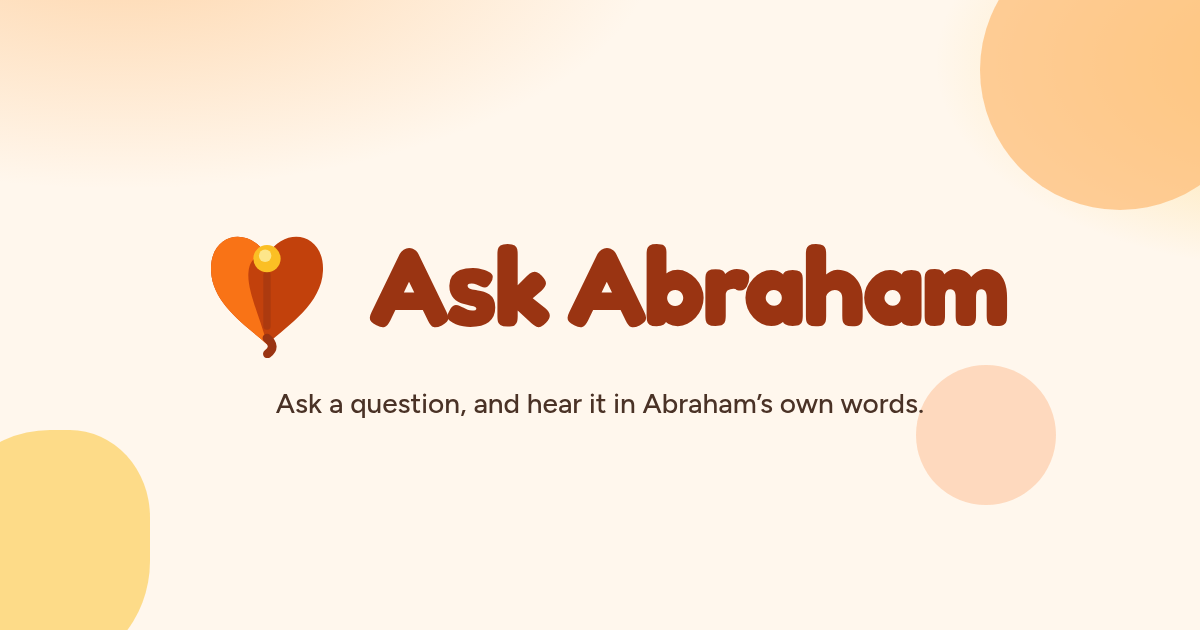
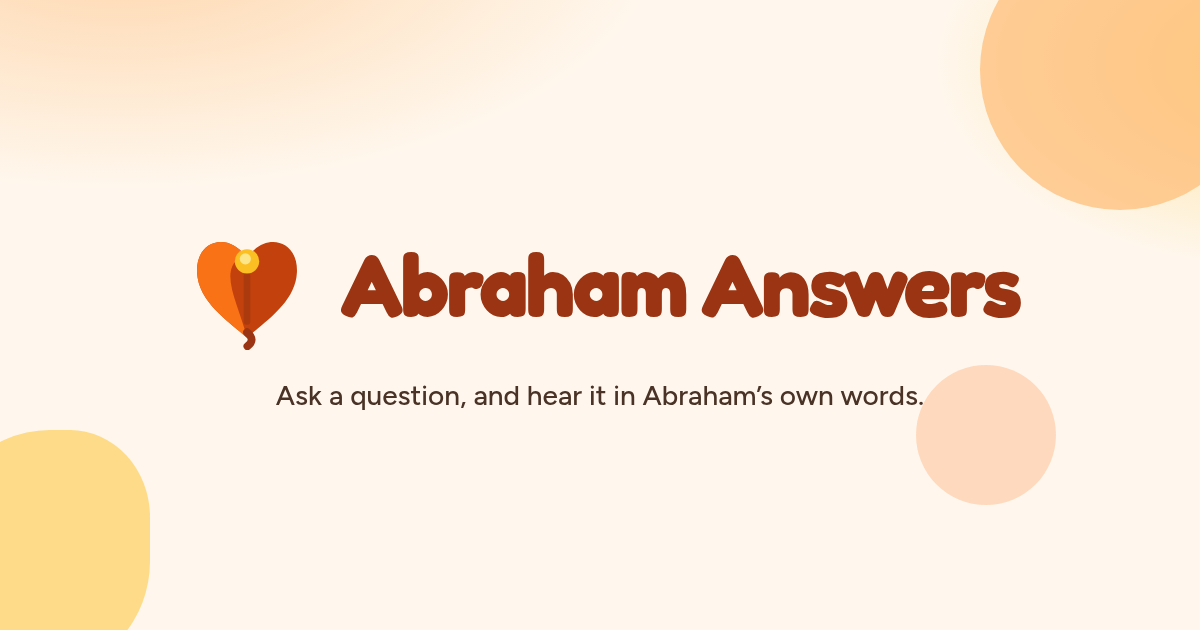
Abraham Answers: rebrand, Answer tab, About comment form, admin@abrahamanswers.com

Changed region(s): [[0.1542, 0.3619, 0.8633, 0.573], [0.2158, 0.6032, 0.7708, 0.6635]]

diff --git a/index.html b/index.html
@@ -3,20 +3,21 @@
 <head>
 <meta charset="utf-8">
 <meta name="viewport" content="width=device-width, initial-scale=1">
-<title>Ask Abraham</title>
+<title>Abraham Answers</title>
 <meta name="description" content="Ask a question and hear it in Abraham’s own words, drawn from Abraham-Hicks transcripts with a link to the exact moment.">
 <meta name="theme-color" content="#C2410C">
 <meta name="apple-mobile-web-app-capable" content="yes">
-<meta name="apple-mobile-web-app-title" content="Ask Abraham">
+<meta name="apple-mobile-web-app-title" content="Abraham Answers">
 <meta property="og:type" content="website">
-<meta property="og:title" content="Ask Abraham">
+<meta property="og:title" content="Abraham Answers">
 <meta property="og:description" content="Ask a question and hear it in Abraham’s own words, drawn from Abraham-Hicks transcripts with a link to the exact moment.">
-<meta property="og:image" content="https://awesome2310-cyber.github.io/ask-abraham/og.png">
-<meta property="og:url" content="https://awesome2310-cyber.github.io/ask-abraham/">
+<meta property="og:image" content="https://abrahamanswers.com/og.png">
+<meta property="og:url" content="https://abrahamanswers.com/">
+<link rel="canonical" href="https://abrahamanswers.com/">
 <meta name="twitter:card" content="summary_large_image">
-<meta name="twitter:title" content="Ask Abraham">
+<meta name="twitter:title" content="Abraham Answers">
 <meta name="twitter:description" content="Ask a question and hear it in Abraham’s own words, drawn from Abraham-Hicks transcripts with a link to the exact moment.">
-<meta name="twitter:image" content="https://awesome2310-cyber.github.io/ask-abraham/og.png">
+<meta name="twitter:image" content="https://abrahamanswers.com/og.png">
 <link rel="icon" href="favicon.svg" type="image/svg+xml">
 <link rel="icon" href="favicon-32.png" sizes="32x32" type="image/png">
 <link rel="apple-touch-icon" href="apple-touch-icon.png">
@@ -279,6 +280,33 @@
   html[data-v="b"] .btn-solid { border-radius: 14px; }
   .btn-solid:hover { transform: translateY(-2px); box-shadow: 0 14px 24px -8px rgba(194,65,12,.6); }
 
+
+  .about-contact .contact-line { margin: 0 0 18px; font-size: 16px; line-height: 1.55; color: var(--ink-soft); }
+  .about-contact .contact-line a { font-weight: 700; color: var(--primary-deep); text-decoration: none; word-break: break-word; }
+  .about-contact .contact-line a:hover { text-decoration: underline; }
+  .comment-form { display: grid; gap: 14px; }
+  .comment-form label { display: grid; gap: 6px; font-size: 13.5px; font-weight: 700; color: var(--ink-soft); }
+  .comment-form .hint { font-weight: 500; color: var(--muted); }
+  .comment-form input[type="text"],
+  .comment-form input[type="email"],
+  .comment-form textarea {
+    appearance: none; width: 100%; border: 1px solid var(--line); background: var(--cream);
+    border-radius: 16px; padding: 12px 14px; font-family: var(--font); font-size: 16px; color: var(--ink);
+    min-height: 48px;
+  }
+  .comment-form textarea { min-height: 140px; resize: vertical; line-height: 1.5; }
+  .comment-form input:focus, .comment-form textarea:focus {
+    outline: none; border-color: var(--peach); box-shadow: 0 0 0 4px rgba(253,186,116,.35); background: #fff;
+  }
+  .comment-form .honey { position: absolute; left: -9999px; width: 1px; height: 1px; overflow: hidden; }
+  .comment-form .form-actions { display: flex; flex-wrap: wrap; align-items: center; gap: 12px; margin-top: 4px; }
+  .comment-form .form-status { margin: 0; font-size: 14.5px; line-height: 1.5; color: var(--ink-soft); }
+  .comment-form .form-status.ok { color: #166534; }
+  .comment-form .form-status.err { color: #9A3412; }
+  .comment-form .form-status a { font-weight: 700; }
+  .comment-form .btn-solid:disabled { opacity: .72; cursor: wait; transform: none; box-shadow: 0 10px 20px -8px rgba(194,65,12,.55); }
+
+
   footer.note { margin-top: 44px; padding-top: 18px; border-top: 1px solid var(--line); color: var(--muted); font-size: 13px; line-height: 1.6; text-align: center; }
   footer.note a { color: var(--primary-deep); font-weight: 600; }
   #toast { position: fixed; left: 50%; bottom: 28px; transform: translateX(-50%); background: var(--ink); color: #fff; padding: 12px 20px; border-radius: 999px; font-size: 14px; font-weight: 600; z-index: 60; box-shadow: var(--shadow-lg); animation: rise .25s var(--ease) both; }
@@ -346,13 +374,13 @@
 
   <header class="topbar">
     <div class="topbar-in">
-      <a class="brand" id="brand" href="./" aria-label="Ask Abraham, home">
+      <a class="brand" id="brand" href="./" aria-label="Abraham Answers, home">
         <svg class="logo-mark" aria-hidden="true"><use href="#heartleaf"/></svg>
-        <span class="brand-name">Ask Abraham</span>
+        <span class="brand-name">Abraham Answers</span>
       </a>
       <nav class="tabs" role="tablist" aria-label="Sections">
         <button type="button" class="tab" id="tabAsk" role="tab" aria-selected="true" aria-controls="askPane" tabindex="0">
-          <svg class="ti" viewBox="0 0 24 24" fill="none" stroke="currentColor" stroke-width="1.9" stroke-linecap="round" stroke-linejoin="round" aria-hidden="true"><path d="M21 11.5a8.38 8.38 0 0 1-.9 3.8 8.5 8.5 0 0 1-7.6 4.7 8.38 8.38 0 0 1-3.8-.9L3 21l1.9-5.7a8.38 8.38 0 0 1-.9-3.8 8.5 8.5 0 0 1 4.7-7.6 8.38 8.38 0 0 1 3.8-.9h.5a8.48 8.48 0 0 1 8 8v.5z"/></svg><span>Ask</span></button>
+          <svg class="ti" viewBox="0 0 24 24" fill="none" stroke="currentColor" stroke-width="1.9" stroke-linecap="round" stroke-linejoin="round" aria-hidden="true"><path d="M21 11.5a8.38 8.38 0 0 1-.9 3.8 8.5 8.5 0 0 1-7.6 4.7 8.38 8.38 0 0 1-3.8-.9L3 21l1.9-5.7a8.38 8.38 0 0 1-.9-3.8 8.5 8.5 0 0 1 4.7-7.6 8.38 8.38 0 0 1 3.8-.9h.5a8.48 8.48 0 0 1 8 8v.5z"/></svg><span>Answer</span></button>
         <button type="button" class="tab" id="tabTopics" role="tab" aria-selected="false" aria-controls="topicsPane" tabindex="-1">
           <svg class="ti" viewBox="0 0 24 24" fill="none" stroke="currentColor" stroke-width="1.9" stroke-linecap="round" stroke-linejoin="round" aria-hidden="true"><circle cx="12" cy="12" r="10"/><path d="m16.24 7.76-2.12 6.36-6.36 2.12 2.12-6.36z"/></svg><span>Explore</span></button>
         <button type="button" class="tab" id="tabAbout" role="tab" aria-selected="false" aria-controls="aboutPane" tabindex="-1">
@@ -366,13 +394,13 @@
       <div class="hero">
         <svg class="hero-mark" aria-hidden="true"><use href="#heartleaf"/></svg>
         <p class="eyebrow">The teachings of Abraham Hicks</p>
-        <h1 class="hero-title">What’s on your <em>mind?</em></h1>
+        <h1 class="hero-title">When You Ask, Source Answers</h1>
         <p class="lede">Ask in your own words and hear Abraham’s answer, with the video ready at the exact moment.</p>
       </div>
       <div class="ask-sticky">
         <div class="ask-box">
           <label for="question" class="visually-hidden">Your question for Abraham</label>
-          <textarea id="question" rows="1" placeholder="Ask Abraham anything…" autocomplete="off"></textarea>
+          <textarea id="question" rows="1" placeholder="Ask Abraham for Answers…" autocomplete="off"></textarea>
           <button type="button" id="askBtn" aria-label="Ask"><span class="lbl">Ask</span><svg viewBox="0 0 24 24" fill="none" stroke="currentColor" stroke-width="2.4" stroke-linecap="round" stroke-linejoin="round" aria-hidden="true"><path d="M5 12h14"/><path d="m13 6 6 6-6 6"/></svg></button>
         </div>
         <div id="loadSlot"></div>
@@ -413,12 +441,12 @@
       <div class="about-hero">
         <svg class="hero-mark" aria-hidden="true"><use href="#heartleaf"/></svg>
         <h1>Helping the words of Abraham reach more people</h1>
-        <p class="about-lede">Ask Abraham is a small labor of love, made to share the teachings of Abraham Hicks with anyone who could use them.</p>
+        <p class="about-lede">Abraham Answers is a small labor of love, made to share the teachings of Abraham Hicks with anyone who could use them.</p>
       </div>
       <div class="about-card">
         <h2>Why we made this</h2>
         <p>There are thousands of hours of Abraham’s recordings out there, and when something is weighing on you, the right words can be hard to find.</p>
-        <p>So we built a simple way to ask in your own words and be taken straight to what Abraham said about it, in his own voice, at the exact moment. When you hit a problem, a worry, a health scare, a money knot, or a tough day with your child, we hope an answer is never more than a question away.</p>
+        <p>So we built a simple way to ask in your own words and be taken straight to what Abraham said about it, in her own voice, at the exact moment. When you hit a problem, a worry, a health scare, a money knot, or a tough day with your child, we hope an answer is never more than a question away.</p>
       </div>
       <div class="about-card about-goal">
         <h2>What we hope for</h2>
@@ -432,9 +460,29 @@
       <div class="about-note">
         <svg viewBox="0 0 24 24" fill="none" stroke="currentColor" stroke-width="1.9" stroke-linecap="round" stroke-linejoin="round" aria-hidden="true"><circle cx="12" cy="12" r="10"/><path d="M12 16v-4"/><path d="M12 8h.01"/></svg>
         <div>
-          <p><strong>A fan-made, unofficial resource.</strong> Ask Abraham is not affiliated with or endorsed by Abraham Hicks or Esther Hicks. All teachings, recordings, and videos belong to Abraham Hicks / Esther Hicks. For the full body of work, visit <a href="https://www.abraham-hicks.com" target="_blank" rel="noopener noreferrer">abraham-hicks.com</a>.</p>
+          <p><strong>A fan-made, unofficial resource.</strong> Abraham Answers is not affiliated with or endorsed by Abraham Hicks or Esther Hicks. All teachings, recordings, and videos belong to Abraham Hicks / Esther Hicks. For the full body of work, visit <a href="https://www.abraham-hicks.com" target="_blank" rel="noopener noreferrer">abraham-hicks.com</a>.</p>
           <p>Only Abraham’s words are shown: audience questions are set apart, and “…” marks where someone else spoke. Answers are word-for-word transcript text. This is inspiration, not medical advice.</p>
         </div>
+      </div>
+      <div class="about-card about-contact">
+        <h2>Leave a comment</h2>
+        <p class="contact-line">Contact us: <a href="mailto:admin@abrahamanswers.com">admin@abrahamanswers.com</a></p>
+        <form id="commentForm" class="comment-form" novalidate>
+          <input class="honey" type="text" name="_honey" id="commentHoney" tabindex="-1" autocomplete="off" aria-hidden="true">
+          <label for="commentName"><span>Name <span class="hint">(optional)</span></span>
+            <input type="text" id="commentName" name="name" autocomplete="name">
+          </label>
+          <label for="commentEmail"><span>Email <span class="hint">(optional, for a reply)</span></span>
+            <input type="email" id="commentEmail" name="email" autocomplete="email" inputmode="email">
+          </label>
+          <label for="commentMessage"><span>Message</span>
+            <textarea id="commentMessage" name="message" required rows="5"></textarea>
+          </label>
+          <div class="form-actions">
+            <button type="submit" class="btn-solid" id="commentSubmit">Send message</button>
+          </div>
+          <p class="form-status" id="commentStatus" role="status" aria-live="polite"></p>
+        </form>
       </div>
       <div class="about-cta"><button type="button" class="btn-solid" data-nav="ask">Ask a question <svg width="18" height="18" viewBox="0 0 24 24" fill="none" stroke="currentColor" stroke-width="2.4" stroke-linecap="round" stroke-linejoin="round" aria-hidden="true"><path d="M5 12h14"/><path d="m13 6 6 6-6 6"/></svg></button></div>
     </section>
@@ -448,10 +496,67 @@
   "use strict";
   // ---- lazy data loading (v11): the search data lives in separate gzip files that are fetched with progress ----
   const DATA_BASE = "data/";
+
+  const COMMENT_ENDPOINT = "https://formsubmit.co/ajax/admin@abrahamanswers.com";
+  const COMMENT_MAIL = "admin@abrahamanswers.com";
+  function bindCommentForm() {
+    const form = document.getElementById("commentForm");
+    if (!form || form.dataset.bound) return;
+    form.dataset.bound = "1";
+    const status = document.getElementById("commentStatus");
+    const submit = document.getElementById("commentSubmit");
+    const setStatus = (msg, kind) => {
+      if (!status) return;
+      status.className = "form-status" + (kind ? " " + kind : "");
+      status.innerHTML = msg;
+    };
+    form.addEventListener("submit", async (e) => {
+      e.preventDefault();
+      const name = (document.getElementById("commentName") && document.getElementById("commentName").value || "").trim();
+      const email = (document.getElementById("commentEmail") && document.getElementById("commentEmail").value || "").trim();
+      const message = (document.getElementById("commentMessage") && document.getElementById("commentMessage").value || "").trim();
+      const honey = (document.getElementById("commentHoney") && document.getElementById("commentHoney").value || "").trim();
+      if (!message) {
+        setStatus("Please write a message.", "err");
+        const box = document.getElementById("commentMessage");
+        if (box) box.focus();
+        return;
+      }
+      if (honey) { setStatus("Thank you! Your message was sent.", "ok"); form.reset(); return; }
+      const bodyLines = (name ? "Name: " + name + "\n" : "") + (email ? "Email: " + email + "\n" : "") + "\n" + message;
+      const mailto = "mailto:" + COMMENT_MAIL + "?subject=" + encodeURIComponent("New comment from AbrahamAnswers.com") + "&body=" + encodeURIComponent(bodyLines);
+      setStatus("Sending…", "");
+      if (submit) { submit.disabled = true; submit.textContent = "Sending…"; }
+      try {
+        const res = await fetch(COMMENT_ENDPOINT, {
+          method: "POST",
+          headers: { "Content-Type": "application/json", "Accept": "application/json" },
+          body: JSON.stringify({
+            name: name,
+            email: email,
+            message: message,
+            _subject: "New comment from AbrahamAnswers.com",
+            _template: "table",
+            _honey: honey
+          })
+        });
+        const data = await res.json().catch(() => ({}));
+        if (!res.ok || data.success === "false" || data.success === false) throw new Error(data.message || "send failed");
+        setStatus("Thank you! Your message was sent.", "ok");
+        form.reset();
+      } catch (err) {
+        setStatus('Something went wrong. You can email us instead at <a href="' + mailto + '">' + COMMENT_MAIL + "</a>.", "err");
+      } finally {
+        if (submit) { submit.disabled = false; submit.textContent = "Send message"; }
+      }
+    });
+  }
+  bindCommentForm();
+
   const MODEL_ID = "Xenova/all-MiniLM-L6-v2";
   const RERANK_ID = "Xenova/ms-marco-MiniLM-L-6-v2";
   const MODEL_CDN = "https://cdn.jsdelivr.net/npm/@xenova/transformers@2.17.2";
-  const LOAD = { data: 0, model: 0, bestData: 0, bestModel: 0, label: "Getting Ask Abraham ready…" };
+  const LOAD = { data: 0, model: 0, bestData: 0, bestModel: 0, label: "Getting Abraham Answers ready…" };
   const PROG = {};
   function showBar(frac, label) {
     let el = document.getElementById("loadbar");
@@ -491,7 +596,7 @@
     const names = Object.keys(man.files), got = {};
     const total = names.reduce((a, k) => a + man.files[k].bytes, 0);
     const upd = (k, b) => { got[k] = b; LOAD.data = Math.min(1, Object.values(got).reduce((a, b2) => a + b2, 0) / total); updateLoad(); };
-    LOAD.label = "Getting Ask Abraham ready…"; updateLoad();
+    LOAD.label = "Getting Abraham Answers ready…"; updateLoad();
     const bytes = {};
     await Promise.all(names.map(async (k) => { bytes[k] = await fetchGz(DATA_BASE + man.files[k].url + "?v=" + man.v, (b) => upd(k, b)); upd(k, man.files[k].bytes); }));
     const dec = new TextDecoder();
@@ -514,7 +619,7 @@
       const tok = await mod.AutoTokenizer.from_pretrained(RERANK_ID, { progress_callback: onP });
       const model = await mod.AutoModelForSequenceClassification.from_pretrained(RERANK_ID, { quantized: true, progress_callback: onP });
       reranker = { tok, model };
-    } catch (err) { console.warn("Ask Abraham: reranker failed; using meaning-search order.", err); }
+    } catch (err) { console.warn("Abraham Answers: reranker failed; using meaning-search order.", err); }
     return { mod, extractor, reranker };
   })();
   MODELS.catch(() => {});
@@ -526,7 +631,7 @@
   let DATA;
   try { DATA = await loadAllData(); }
   catch (err) {
-    console.error("Ask Abraham: could not load library data", err);
+    console.error("Abraham Answers: could not load library data", err);
     showBar(null);
     const st = document.getElementById("status");
     if (st) st.textContent = "Couldn’t load Abraham’s library. Check your connection and refresh the page.";
@@ -769,7 +874,7 @@
       if (m.reranker) { reranker = m.reranker; rerankStatus = "ready"; } else rerankStatus = "failed";
       LOAD.model = 1; updateLoad();
     } catch (err) {
-      console.warn("Ask Abraham: semantic model failed, using keyword search.", err);
+      console.warn("Abraham Answers: semantic model failed, using keyword search.", err);
       embedStatus = "failed"; rerankStatus = "failed"; showBar(null);
       setModelNote("No connection to load the AI model, so keyword search is being used. You can still ask.");
     }
@@ -1120,7 +1225,7 @@
   const topicsPane = document.getElementById("topicsPane");
   if (topicsPane) { topicsPane.addEventListener("keydown", onResultsKey); topicsPane.addEventListener("click", onResultsClick); }
   const footer = document.getElementById("footerNote");
-  if (footer) footer.innerHTML = "Ask Abraham is a fan-made, unofficial resource. All teachings and videos belong to Abraham Hicks / Esther Hicks. <a href=\"?about=1\" data-nav=\"about\">About</a>";
+  if (footer) footer.innerHTML = "Abraham Answers is a fan-made, unofficial resource. All teachings and videos belong to Abraham Hicks / Esther Hicks. <a href=\"?about=1\" data-nav=\"about\">About</a>";
 
   let runId = 0;
   async function run(raw, opts) {
@@ -1637,11 +1742,11 @@
     return u.pathname + u.search + u.hash;
   }
   function setDocTitle(st) {
-    if (st.tab === "topics" && st.topic != null && TOPICS[st.topic]) document.title = TOPICS[st.topic].name + " · Ask Abraham";
-    else if (st.q) document.title = st.q + " · Ask Abraham";
-    else if (st.tab === "topics") document.title = "Explore · Ask Abraham";
-    else if (st.tab === "about") document.title = "About · Ask Abraham";
-    else document.title = "Ask Abraham";
+    if (st.tab === "topics" && st.topic != null && TOPICS[st.topic]) document.title = TOPICS[st.topic].name + " · Abraham Answers";
+    else if (st.q) document.title = st.q + " · Abraham Answers";
+    else if (st.tab === "topics") document.title = "Explore · Abraham Answers";
+    else if (st.tab === "about") document.title = "About · Abraham Answers";
+    else document.title = "Abraham Answers";
   }
   let navLock = false;
   function pushNav(replace) {
@@ -1696,7 +1801,7 @@
   async function shareCurrent() {
     pushNav(true);
     const url = location.href;
-    const title = document.title || "Ask Abraham";
+    const title = document.title || "Abraham Answers";
     try {
       if (navigator.share) { await navigator.share({ title, text: title, url }); return; }
     } catch (e) { if (e && e.name === "AbortError") return; }
